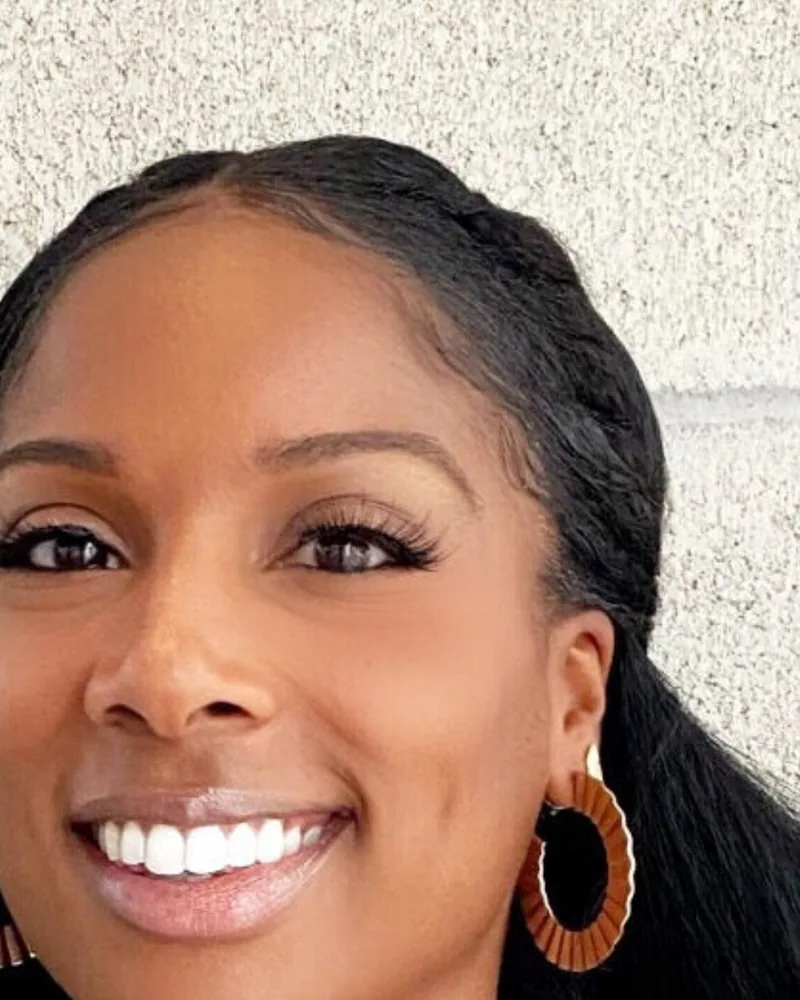
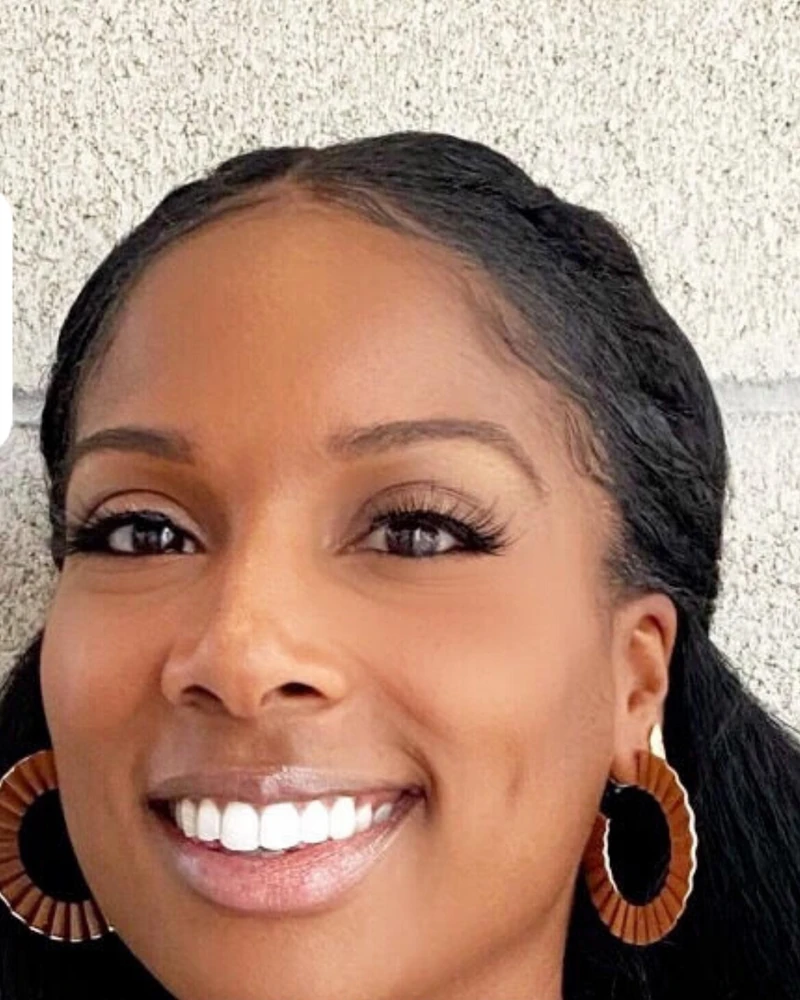
Revise Wealth Break guests: drop René Daniella, combine Coco and Breezy, improve portraits

diff --git a/wealth-break/index.html b/wealth-break/index.html
@@ -28,7 +28,7 @@
 <section class="blk fd res"><h2 class="lab">Results</h2><dl class="rs"><div><dd>2</dd><dt>national distribution&nbsp;partners</dt></div><div><dd>+50K</dd><dt>newsletter&nbsp;subscribers</dt></div><div><dd>30-40%</dd><dt>newsletter open&nbsp;rate</dt></div></dl></section>
 <section class="blk fd dd"><h2 class="lab">What I did</h2><ul class="did"><li><h3>Showrunner</h3><p>Run the show end to end: guest outreach, production, editing and&nbsp;publishing.</p></li><li><h3>Guest outreach</h3><p>Booked founders across food, beauty and venture, including the co-founder of Mielle Organics and the founder of Just Add Hot&nbsp;Sauce.</p></li><li><h3>Media hub editor</h3><p>Edit the Wealth Break media hub, including This Week in Money, a weekly carousel that recaps the money news with the source behind every&nbsp;number.</p></li><li><h3>Newsletter</h3><p>Grew the weekly Wealth Break newsletter by 50K subscribers, with open rates between 30 and&nbsp;40%.</p></li><li><h3>Distribution</h3><p>Delivered a nationally distributed show through iHeartRadio and&nbsp;Essence.</p></li></ul></section>
 <section class="mb fd"><h2 class="lab">On social</h2><div class="mg swipe n6"><figure class="mf soc cr"><div class="car" data-car role="region" aria-roledescription="carousel" aria-label="This Week in Money, November 20, 2026"><div class="ct" tabindex="0"><figure class="sl" role="group" aria-roledescription="slide" aria-label="1 of 7"><img src="../assets/case/the-wealth-break/twim/01-cover.webp" alt="This Week in Money cover: households are stretched heading into the holidays, and the costs keep coming." width="720" height="900" loading="lazy" decoding="async"></figure><figure class="sl" role="group" aria-roledescription="slide" aria-label="2 of 7"><img src="../assets/case/the-wealth-break/twim/02-debt.webp" alt="Fear of missing minimums: 13.8%, per the New York Fed." width="720" height="900" loading="lazy" decoding="async"></figure><figure class="sl" role="group" aria-roledescription="slide" aria-label="3 of 7"><img src="../assets/case/the-wealth-break/twim/03-swipe-fees.webp" alt="Swiper no swiping: $500M in swipe fees." width="720" height="900" loading="lazy" decoding="async"></figure><figure class="sl" role="group" aria-roledescription="slide" aria-label="4 of 7"><img src="../assets/case/the-wealth-break/twim/04-stablecoins.webp" alt="Shaky stablecoins: -$14.2B." width="720" height="900" loading="lazy" decoding="async"></figure><figure class="sl" role="group" aria-roledescription="slide" aria-label="5 of 7"><img src="../assets/case/the-wealth-break/twim/05-holidays.webp" alt="Holiday spending over paying rent: 46% of Gen Z." width="720" height="900" loading="lazy" decoding="async"></figure><figure class="sl" role="group" aria-roledescription="slide" aria-label="6 of 7"><img src="../assets/case/the-wealth-break/twim/06-medicare.webp" alt="Prescription price hikes: $50+ a month on two AARP plans." width="720" height="900" loading="lazy" decoding="async"></figure><figure class="sl" role="group" aria-roledescription="slide" aria-label="7 of 7"><img src="../assets/case/the-wealth-break/twim/07-end-card.webp" alt="Read the full breakdown at thewealthbreak.com." width="720" height="900" loading="lazy" decoding="async"></figure></div><div class="cn"><button type="button" class="cp" aria-label="Previous slide">&larr;&#xFE0E;</button><div class="cd"><button type="button" aria-label="Slide 1" aria-current="true"></button><button type="button" aria-label="Slide 2"></button><button type="button" aria-label="Slide 3"></button><button type="button" aria-label="Slide 4"></button><button type="button" aria-label="Slide 5"></button><button type="button" aria-label="Slide 6"></button><button type="button" aria-label="Slide 7"></button></div><button type="button" class="cx" aria-label="Next slide">&rarr;&#xFE0E;</button></div></div><figcaption class="mc">This Week in Money<small>Swipe or use arrows</small></figcaption></figure><figure class="mf soc rl"><video class="lp rv" muted loop playsinline preload="none" poster="../assets/case/the-wealth-break/reel-shontay-poster.webp" width="480" height="600" aria-label="Shontay Lundy on The Wealth Break, reel preview"><source src="../assets/case/the-wealth-break/reel-shontay.webm" type="video/webm"><source src="../assets/case/the-wealth-break/reel-shontay.mp4" type="video/mp4"></video><figcaption class="mc">Shontay Lundy</figcaption></figure><figure class="mf soc"><img src="../assets/case/the-wealth-break/static-alex-hill.webp" alt="Quote graphic: Alex Hill" width="720" height="900" loading="lazy" decoding="async"><figcaption class="mc">Alex Hill</figcaption></figure><figure class="mf soc rl"><video class="lp rv" muted loop playsinline preload="none" poster="../assets/case/the-wealth-break/reel-rodney-poster.webp" width="480" height="600" aria-label="Rodney Williams on The Wealth Break, reel preview"><source src="../assets/case/the-wealth-break/reel-rodney.webm" type="video/webm"><source src="../assets/case/the-wealth-break/reel-rodney.mp4" type="video/mp4"></video><figcaption class="mc">Rodney Williams</figcaption></figure><figure class="mf soc rl"><video class="lp rv" muted loop playsinline preload="none" poster="../assets/case/the-wealth-break/reel-tiffany-poster.webp" width="480" height="600" aria-label="Tiffany Graddick on The Wealth Break, reel preview"><source src="../assets/case/the-wealth-break/reel-tiffany.webm" type="video/webm"><source src="../assets/case/the-wealth-break/reel-tiffany.mp4" type="video/mp4"></video><figcaption class="mc">Tiffany Graddick</figcaption></figure><figure class="mf soc"><img src="../assets/case/the-wealth-break/static-gerry-lopez.webp" alt="Quote graphic: Gerry Lopez" width="720" height="900" loading="lazy" decoding="async"><figcaption class="mc">Gerry Lopez</figcaption></figure></div></section>
-<div class="pcs fd"><figure class="pc"><img src="../assets/case/the-wealth-break/studio-rodney.webp" alt="Rodney Williams" width="960" height="1200" loading="lazy" decoding="async"><figcaption class="mc">Rodney Williams</figcaption></figure><figure class="pc"><img src="../assets/case/the-wealth-break/studio-travis.webp" alt="Travis Holoway" width="960" height="1200" loading="lazy" decoding="async"><figcaption class="mc">Travis Holoway</figcaption></figure><figure class="pc"><img src="../assets/case/the-wealth-break/guest-monique-idlett.webp" alt="Monique Idlett" width="800" height="1000" loading="lazy" decoding="async"><figcaption class="mc">Monique Idlett</figcaption></figure><figure class="pc"><img src="../assets/case/the-wealth-break/guest-rene-daniella.webp" alt="René Daniella" width="800" height="1000" loading="lazy" decoding="async"><figcaption class="mc">René Daniella</figcaption></figure><figure class="pc"><img src="../assets/case/the-wealth-break/guest-coco.webp" alt="Coco" width="800" height="1000" loading="lazy" decoding="async"><figcaption class="mc">Coco</figcaption></figure><figure class="pc"><img src="../assets/case/the-wealth-break/guest-breezy.webp" alt="Breezy" width="800" height="1000" loading="lazy" decoding="async"><figcaption class="mc">Breezy</figcaption></figure><figure class="pc"><img src="../assets/case/the-wealth-break/guest-marlon-nichols.webp" alt="Marlon Nichols" width="800" height="1000" loading="lazy" decoding="async"><figcaption class="mc">Marlon Nichols</figcaption></figure><figure class="pc"><img src="../assets/case/the-wealth-break/guest-eric-taylor.webp" alt="Eric Taylor" width="800" height="1000" loading="lazy" decoding="async"><figcaption class="mc">Eric Taylor</figcaption></figure><figure class="pc"><img src="../assets/case/the-wealth-break/guest-tiffany-graddick.webp" alt="Tiffany Graddick" width="800" height="1000" loading="lazy" decoding="async"><figcaption class="mc">Tiffany Graddick</figcaption></figure><figure class="pc"><img src="../assets/case/the-wealth-break/guest-shontay-lundy.webp" alt="Shontay Lundy" width="800" height="1000" loading="lazy" decoding="async"><figcaption class="mc">Shontay Lundy</figcaption></figure><figure class="pc"><img src="../assets/case/the-wealth-break/guest-gerry-lopez.webp" alt="Gerry Lopez" width="800" height="1000" loading="lazy" decoding="async"><figcaption class="mc">Gerry Lopez</figcaption></figure><figure class="pc"><img src="../assets/case/the-wealth-break/guest-melvin-rodriguez.webp" alt="Melvin Rodriguez" width="800" height="1000" loading="lazy" decoding="async"><figcaption class="mc">Melvin Rodriguez</figcaption></figure><figure class="pc"><img src="../assets/case/the-wealth-break/guest-alex-hill.webp" alt="Alex Hill" width="800" height="1000" loading="lazy" decoding="async"><figcaption class="mc">Alex Hill</figcaption></figure></div>
+<div class="pcs fd"><figure class="pc"><img src="../assets/case/the-wealth-break/guest-rodney-williams.webp" alt="Rodney Williams" width="800" height="1000" loading="lazy" decoding="async"><figcaption class="mc">Rodney Williams</figcaption></figure><figure class="pc"><img src="../assets/case/the-wealth-break/guest-travis-holoway.webp" alt="Travis Holoway" width="800" height="1000" loading="lazy" decoding="async"><figcaption class="mc">Travis Holoway</figcaption></figure><figure class="pc"><img src="../assets/case/the-wealth-break/guest-monique-idlett.webp" alt="Monique Idlett" width="800" height="1000" loading="lazy" decoding="async"><figcaption class="mc">Monique Idlett</figcaption></figure><figure class="pc"><img src="../assets/case/the-wealth-break/guest-coco-and-breezy.webp" alt="Coco and Breezy" width="800" height="1000" loading="lazy" decoding="async"><figcaption class="mc">Coco and Breezy</figcaption></figure><figure class="pc"><img src="../assets/case/the-wealth-break/guest-marlon-nichols.webp" alt="Marlon Nichols" width="800" height="1000" loading="lazy" decoding="async"><figcaption class="mc">Marlon Nichols</figcaption></figure><figure class="pc"><img src="../assets/case/the-wealth-break/guest-eric-taylor.webp" alt="Eric Taylor" width="800" height="1000" loading="lazy" decoding="async"><figcaption class="mc">Eric Taylor</figcaption></figure><figure class="pc"><img src="../assets/case/the-wealth-break/guest-tiffany-graddick.webp" alt="Tiffany Graddick" width="800" height="1000" loading="lazy" decoding="async"><figcaption class="mc">Tiffany Graddick</figcaption></figure><figure class="pc"><img src="../assets/case/the-wealth-break/guest-shontay-lundy.webp" alt="Shontay Lundy" width="800" height="1000" loading="lazy" decoding="async"><figcaption class="mc">Shontay Lundy</figcaption></figure><figure class="pc"><img src="../assets/case/the-wealth-break/guest-gerry-lopez.webp" alt="Gerry Lopez" width="800" height="1000" loading="lazy" decoding="async"><figcaption class="mc">Gerry Lopez</figcaption></figure><figure class="pc"><img src="../assets/case/the-wealth-break/guest-melvin-rodriguez.webp" alt="Melvin Rodriguez" width="800" height="1000" loading="lazy" decoding="async"><figcaption class="mc">Melvin Rodriguez</figcaption></figure><figure class="pc"><img src="../assets/case/the-wealth-break/guest-alex-hill.webp" alt="Alex Hill" width="800" height="1000" loading="lazy" decoding="async"><figcaption class="mc">Alex Hill</figcaption></figure></div>
 <section class="blk fd"><h2 class="lab">Featured episodes</h2><ul class="lst"><li><span class="k">Food</span><span class="h"><a href="https://www.youtube.com/watch?v=aMVgwhePOZ8" target="_blank" rel="noopener">Feed What Feeds You: Alex Hill</a></span><span class="d">Founder of Just Add Hot&nbsp;Sauce</span></li><li><span class="k">Beauty</span><span class="h"><a href="https://www.youtube.com/watch?v=kANbkyqtins" target="_blank" rel="noopener">Organic Evolution: Melvin Rodriguez</a></span><span class="d">Co-founder of Mielle&nbsp;Organics</span></li><li><span class="k">Venture</span><span class="h"><a href="https://www.youtube.com/watch?v=xQDA6Of5K9Q" target="_blank" rel="noopener">Demystifying Wealth: Monique Idlett</a></span><span class="d">Founder of Reign&nbsp;Ventures</span></li></ul></section>
 <a class="nx" href="../projects/mugler.html"><span>Next project</span><b>mugler &rarr;&#xFE0E;</b></a>
 <footer class="ft"><p class="l">Community, content and sound for companies, campaigns and the&nbsp;stage.</p><p><a href="mailto:maliksaaka@gmail.com">maliksaaka@gmail.com</a></p><p>&copy; 2026 Malik Saaka</p><p>Los Angeles / New York</p></footer>
